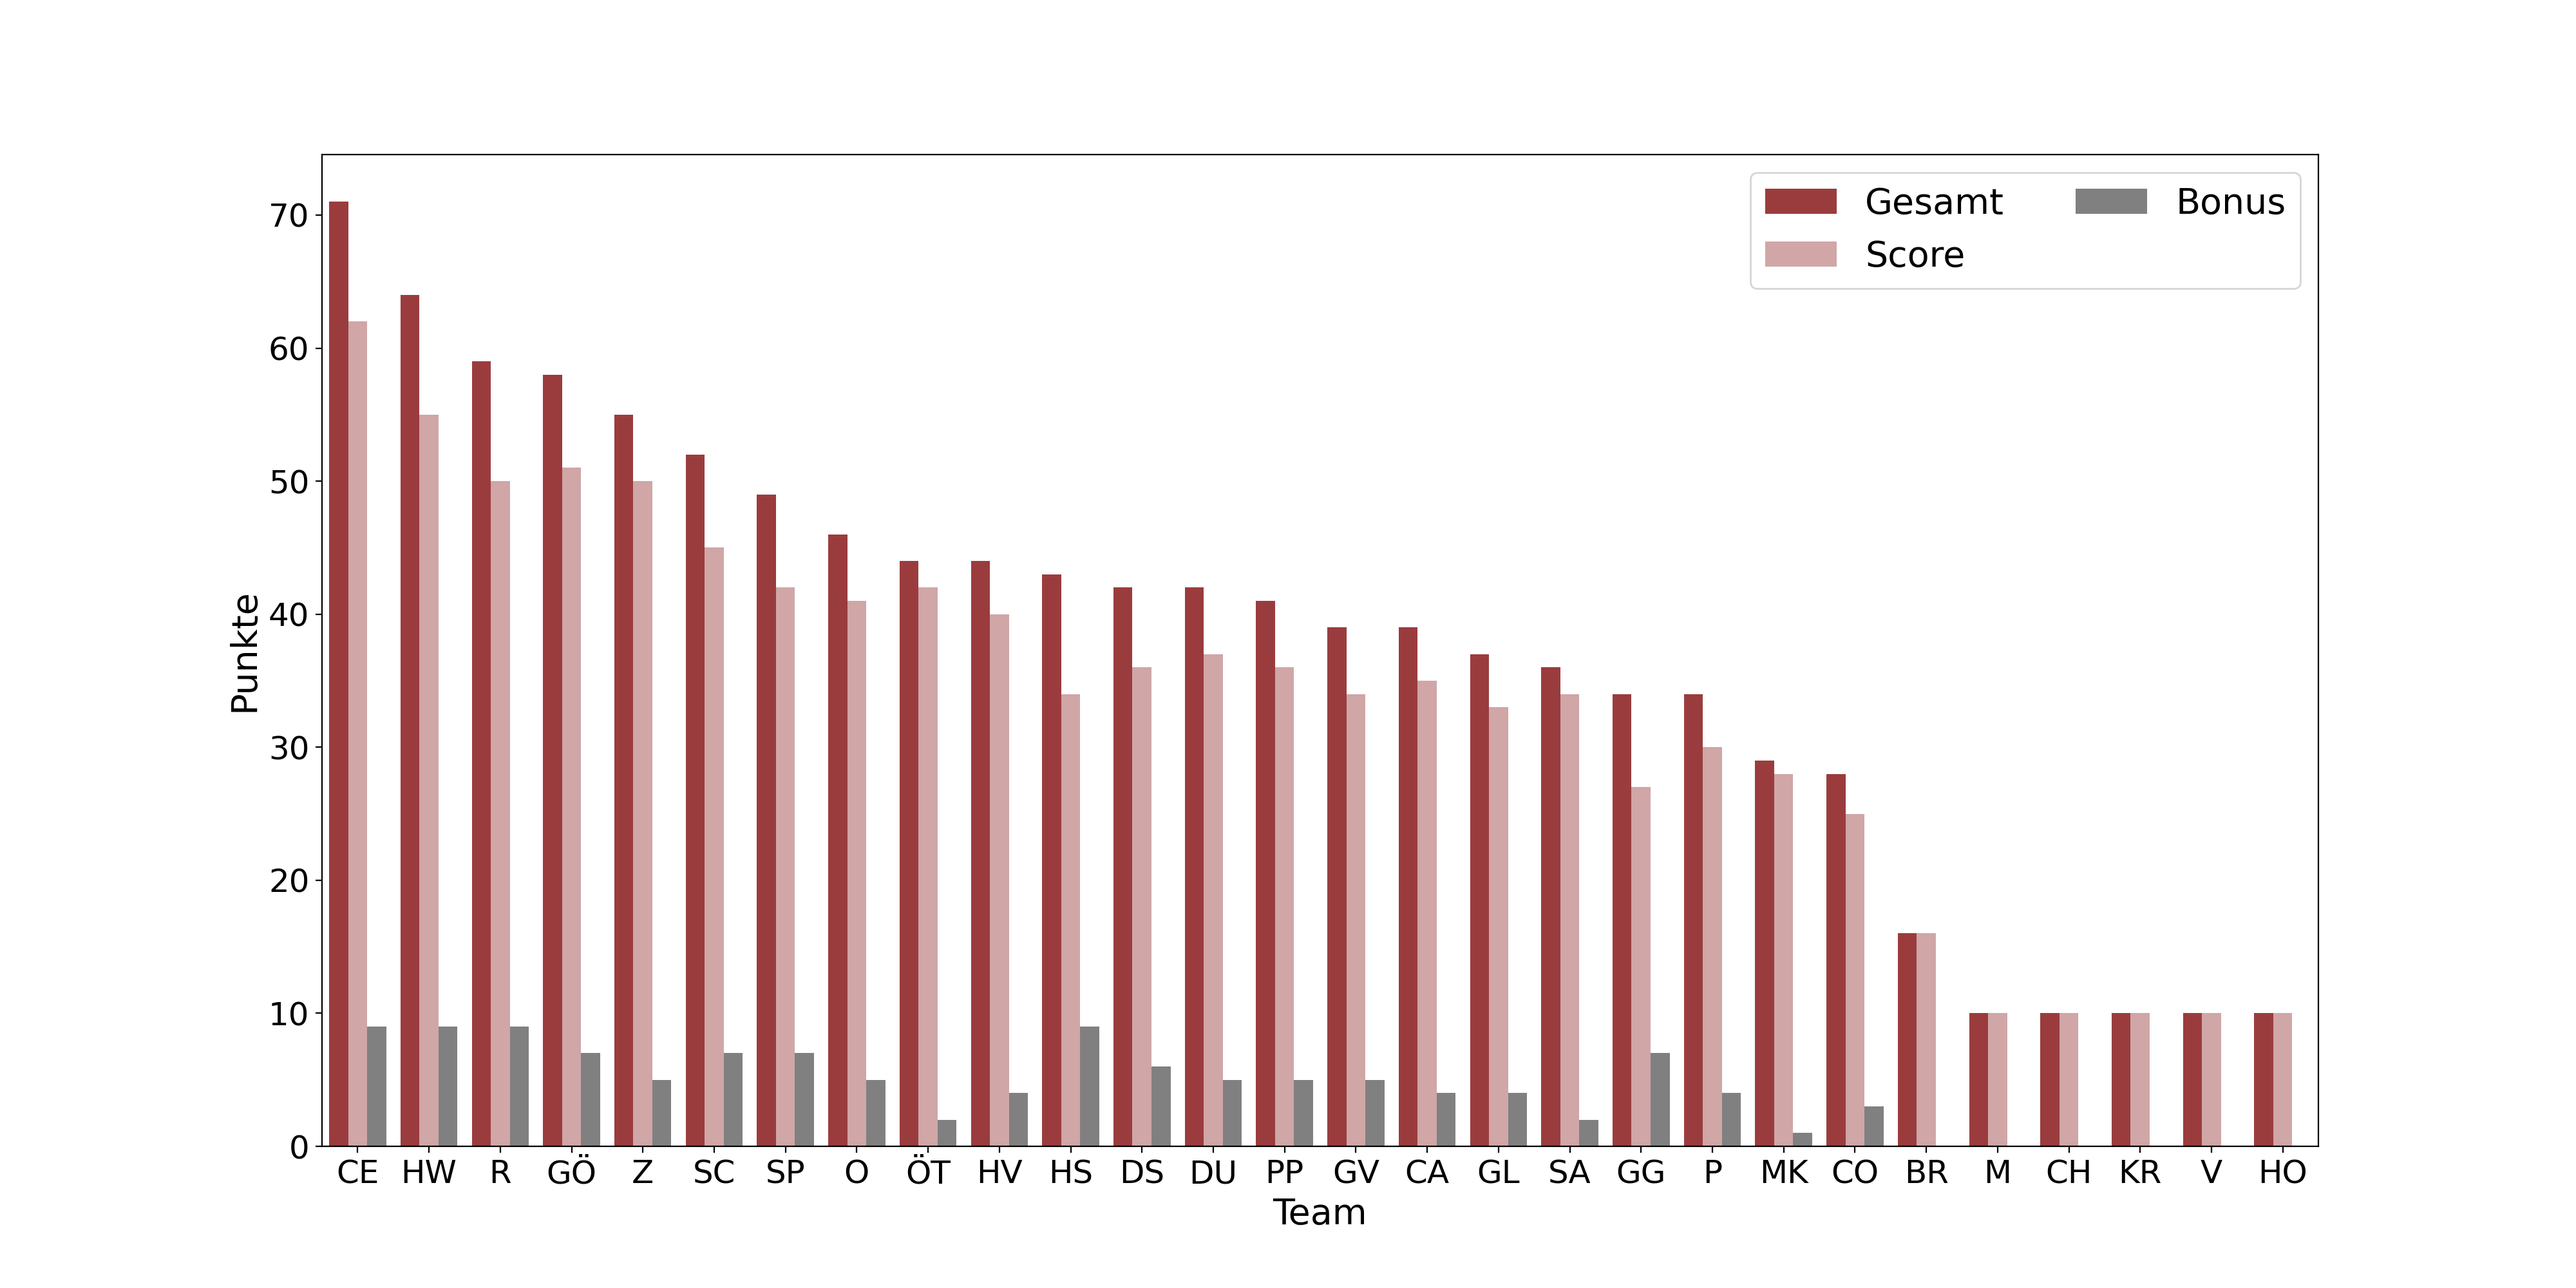
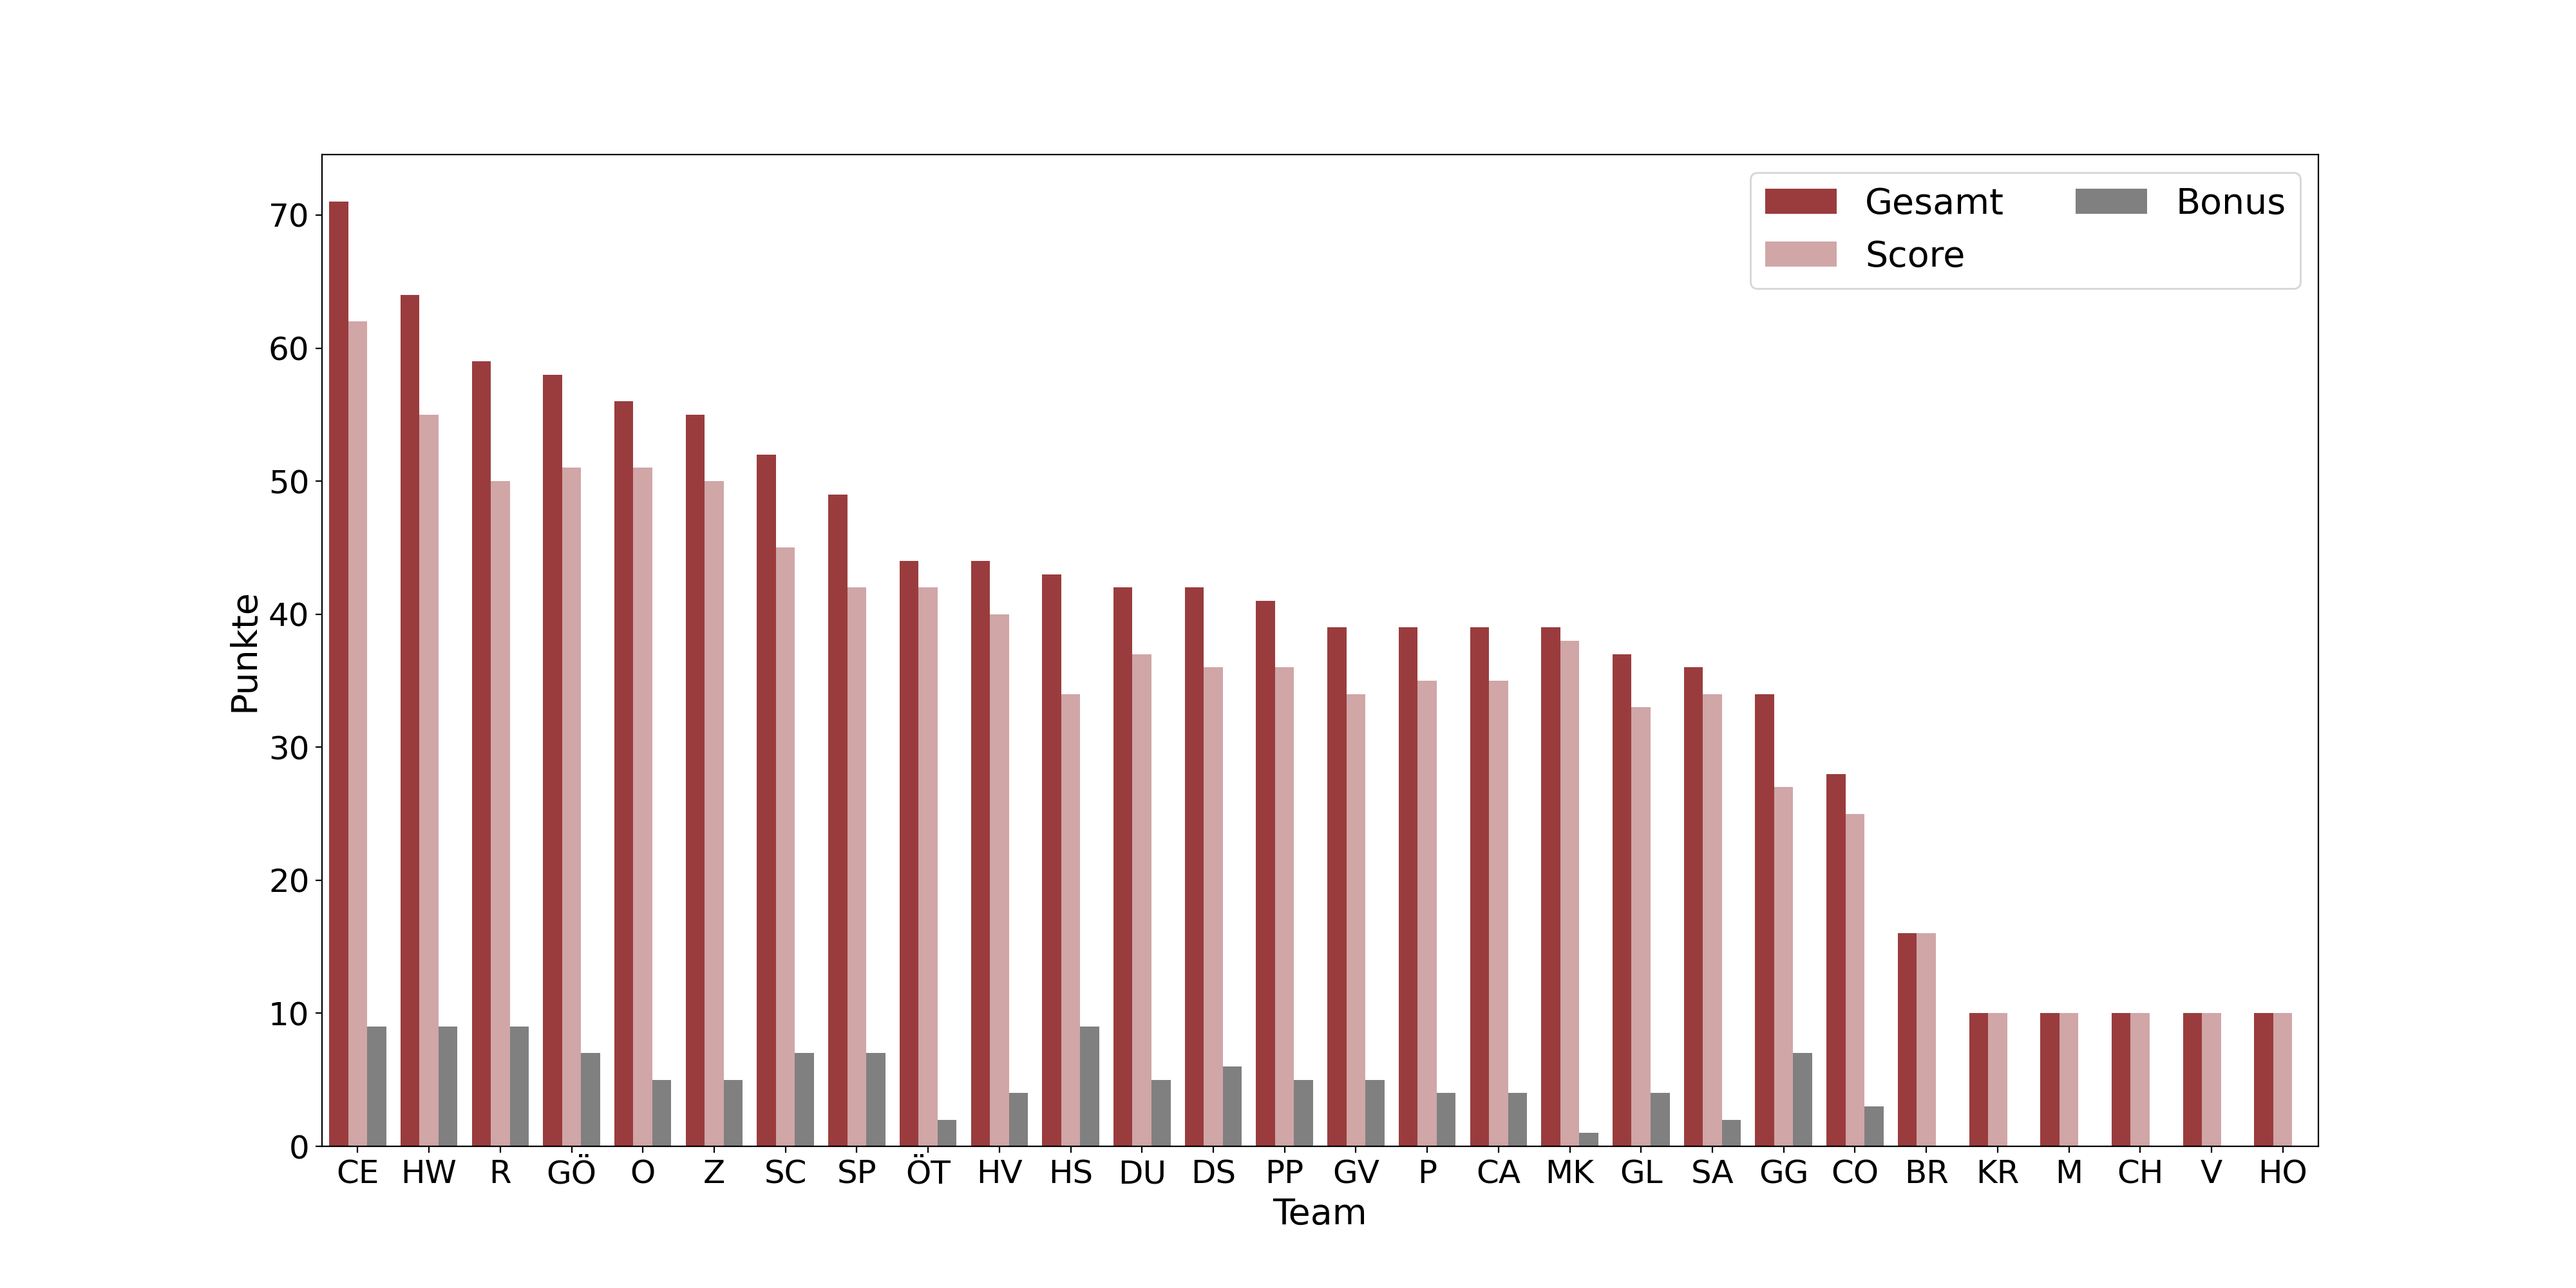
update

diff --git a/css/style_teams.css b/css/style_teams.css
@@ -12,17 +12,17 @@
             background-color: #bde0fe
         }
         .GL {
-            order: 16
+            order: 18
         }
         .GL .team__all-points::after{
             content: "37"
         }
         
         .O .team__score::after {
-            content: "41/120"
+            content: "51/120"
         }
         .O .team__stations::after {
-            content: "6/12"
+            content: "7/12"
         }
         .O .team__bonus::after {
             content: "5/36"
@@ -31,10 +31,10 @@
             background-color: #daeaf6
         }
         .O {
-            order: 7
+            order: 4
         }
         .O .team__all-points::after{ 
-            content: " 46"
+            content: " 56"
         }
 
 
@@ -51,7 +51,7 @@
             background-color: #9bd0b7
         }
         .Z {
-            order: 4
+            order: 5
         }
         .Z .team__all-points::after{
             content: "55"
@@ -72,7 +72,7 @@
             background-color: #c23a22
         }
         .M {
-            order: 23
+            order: 24
         }
         .M .team__all-points::after{
             content: "10 "
@@ -92,7 +92,7 @@
             background-color: #dab894
         }
         .DS {
-            order: 11
+            order: 12
         }
         .DS .team__all-points::after{
             content: "42"
@@ -112,7 +112,7 @@
             background-color: #d6eadf
         }
         .DU {
-            order: 12
+            order: 11
         }
         .DU .team__all-points::after{
             content: "42"
@@ -154,7 +154,7 @@
             background-color: #E0BBE4
         }
         .GG {
-            order: 18
+            order: 20
         }
         .GG .team__all-points::after{
              content: "34"
@@ -174,7 +174,7 @@
             background-color: #d291bc
         }
         .CH {
-            order: 24
+            order: 25
         }
         .CH .team__all-points::after{
             content: "10"
@@ -234,7 +234,7 @@
             background-color: #9d8189
         }
         .SC {
-            order: 5
+            order: 6
         }
         .SC .team__all-points::after{
             content: "52"
@@ -262,10 +262,10 @@
 
 
         .MK .team__score::after {
-            content: "28/120"
+            content: "38/120"
         }
         .MK .team__stations::after {
-            content: "3/12"
+            content: "4/12"
         }
         .MK .team__bonus::after {
             content: "1/36"
@@ -274,10 +274,10 @@
             background-color: #9cadce
         }
         .MK {
-            order: 20
+            order: 17
         }
         .MK .team__all-points::after{
-            content: "29"
+            content: "39"
         }
 
 
@@ -294,7 +294,7 @@
             background-color: #a2d2ff
         }
         .SA {
-            order: 17
+            order: 19
         }
         .SA .team__all-points::after{
             content: "36"
@@ -302,10 +302,10 @@
         
 
         .P .team__score::after {
-            content: "30/120"
+            content: "35/120"
         }
         .P .team__stations::after {
-            content: "4/12"
+            content: "5/12"
         }
         .P .team__bonus::after {
             content: "4/36"
@@ -314,10 +314,10 @@
             background-color: #5d5b6a
         }
         .P {
-            order: 19
+            order: 15
         }
         .P .team__all-points::after{
-            content: "34"
+            content: "39"
         }
 
 
@@ -436,7 +436,7 @@
             background-color: #ff8fab
         }
         .KR {
-            order: 25
+            order: 23
         }
         .KR .team__all-points::after{
             content: "10"
@@ -444,10 +444,10 @@
         
         
         .CO .team__score::after {
-            content: "20/120"
+            content: "25/120"
         }
         .CO .team__stations::after {
-            content: "3/12"
+            content: "4/12"
         }
         .CO .team__bonus::after {
             content: "3/36"
@@ -459,7 +459,7 @@
             order: 21
         }
         .CO .team__all-points::after{
-            content: "23"
+            content: "28"
         }
 
 
@@ -516,7 +516,7 @@
             background-color: #ffc8dd
         }
         .CA {
-            order: 15
+            order: 16
         }
         .CA .team__all-points::after{
             content: "39"
@@ -535,7 +535,7 @@
             background-color: #f6bc66
         }
         .SP {
-            order: 6
+            order: 7
         }
         .SP .team__all-points::after{
             content: "49"

diff --git a/css/style_station.css b/css/style_station.css
@@ -28,7 +28,7 @@
         }
 
         .H .station__teams::after {
-            content: "9/28"
+            content: "10/28"
         }
 
         .I .station__teams::after {
